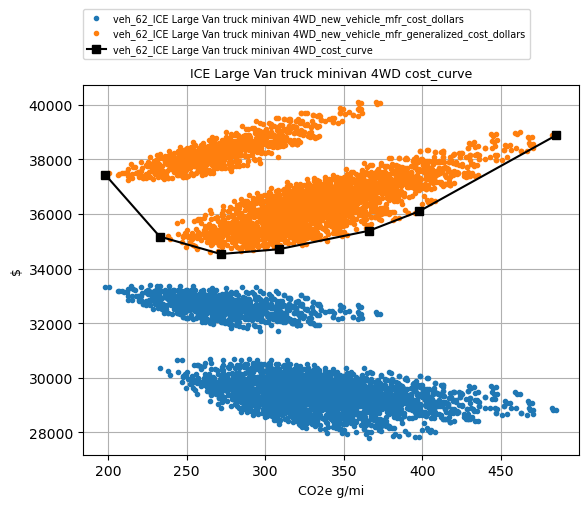
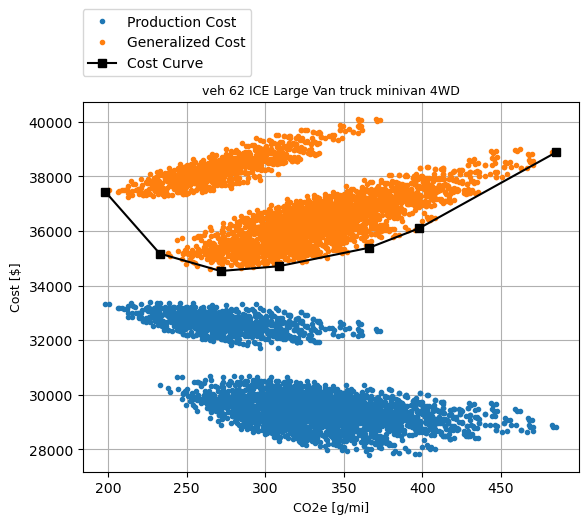
updated figures and associated code

diff --git a/omega_model/producer/vehicles.py b/omega_model/producer/vehicles.py
@@ -529,7 +529,7 @@ class CompositeVehicle(OMEGABase):
             from common.omega_plot import figure, label_xyt
 
             fig, ax1 = figure()
-            label_xyt(ax1, 'CO2e g/mi', 'new_vehicle_mfr_generalized_cost_dollars', '%s cost_curve' % self.name)
+            label_xyt(ax1, 'CO2e [g/mi]', 'Generalized Cost [$]', '%s' % self.name)
 
         for v in self.vehicle_list:
             if 'cost_curve' in self.__dict__:
@@ -545,7 +545,7 @@ class CompositeVehicle(OMEGABase):
                     ax1.plot(v.cost_curve['veh_%s_cert_co2e_grams_per_mile' % v.vehicle_id],
                              v.cost_curve['veh_%s_new_vehicle_mfr_generalized_cost_dollars' % v.vehicle_id], 's-',
                              color='black',
-                             label='veh_%s_%s' % (v.vehicle_id, v.name))
+                             label='veh %s %s' % (v.vehicle_id, v.name))
 
                     ax1.plot(v.cert_co2e_grams_per_mile,
                              v.new_vehicle_mfr_generalized_cost_dollars, '*',
@@ -555,7 +555,7 @@ class CompositeVehicle(OMEGABase):
                     ax1.plot(v.cost_curve['veh_%s_cert_co2e_grams_per_mile' % v.vehicle_id],
                              v.cost_curve['veh_%s_new_vehicle_mfr_generalized_cost_dollars' % v.vehicle_id], '.--',
                              linewidth=1,
-                             label='veh_%s_%s' % (v.vehicle_id, v.name))
+                             label='veh %s %s' % (v.vehicle_id, v.name))
 
                     ax1.plot(v.cert_co2e_grams_per_mile,
                              v.new_vehicle_mfr_generalized_cost_dollars, '*',
@@ -566,7 +566,7 @@ class CompositeVehicle(OMEGABase):
 
             ax1.plot(self.cost_curve['cert_co2e_grams_per_mile'],
                      self.cost_curve['new_vehicle_mfr_generalized_cost_dollars'], '-', linewidth=3,
-                     label='composite_vehicle_cost_curve')
+                     label='Composite Vehicle')
 
             ax1.plot(self.cert_co2e_grams_per_mile, self.new_vehicle_mfr_generalized_cost_dollars, '*', markersize=25,
                      color=ax1.get_lines()[-1].get_color())
@@ -574,8 +574,10 @@ class CompositeVehicle(OMEGABase):
             ax1.legend(fontsize='medium', bbox_to_anchor=(1.04, 0), loc="lower left",
                                borderaxespad=0)
 
-            fig.savefig('%s%s_%s_decomposition.png' % (omega_globals.options.output_folder, self.model_year, ax1.get_title()),
-                        bbox_inches='tight')
+            figname = '%s%s_%s_cost_curve_decomposition.png' % (omega_globals.options.output_folder, self.model_year, ax1.get_title())
+            figname = figname.replace('(', '_').replace(')', '_').replace('.', '_').replace(' ', '_')\
+                .replace('__', '_').replace('_png', '.png')
+            fig.savefig(figname, bbox_inches='tight')
 
     def calc_composite_cost_curve(self, plot=False):
         """
@@ -599,7 +601,7 @@ class CompositeVehicle(OMEGABase):
 
         if plot:
             fig, ax1 = figure()
-            label_xyt(ax1, 'CO2e g/mi', 'new_vehicle_mfr_generalized_cost_dollars', '%s cost_curve' % self.name)
+            label_xyt(ax1, 'CO2e [g/mi]', 'Generalized Cost [$]', '%s' % self.name)
 
         composite_frontier_df = pd.DataFrame()
         composite_frontier_df['market_share_frac'] = [0]
@@ -643,20 +645,23 @@ class CompositeVehicle(OMEGABase):
                     ax1.plot(vehicle_frontier['veh_%s_cert_co2e_grams_per_mile' % v.vehicle_id],
                              vehicle_frontier['veh_%s_new_vehicle_mfr_generalized_cost_dollars' % v.vehicle_id], 's-',
                              color='black',
-                             label='veh_%s_%s' % (v.vehicle_id, v.name))
+                             label='veh %s %s' % (v.vehicle_id, v.name))
                 else:
                     ax1.plot(vehicle_frontier['veh_%s_cert_co2e_grams_per_mile' % v.vehicle_id] ,
                              vehicle_frontier['veh_%s_new_vehicle_mfr_generalized_cost_dollars' % v.vehicle_id], '.--',
-                             linewidth=1, label='veh_%s_%s' % (v.vehicle_id, v.name))
+                             linewidth=1, label='veh %s %s' % (v.vehicle_id, v.name))
 
         if plot:
             ax1.plot(composite_frontier_df['cert_co2e_grams_per_mile'],
                      composite_frontier_df['new_vehicle_mfr_generalized_cost_dollars'], '-', linewidth=3,
-                     label='composite_vehicle_cost_curve')
+                     label='Composite Vehicle')
 
             ax1.legend(fontsize='medium', bbox_to_anchor=(1.04,0), loc="lower left", borderaxespad=0)
 
-            fig.savefig('%s%s_%s_composition.png' % (omega_globals.options.output_folder, self.model_year, ax1.get_title()), bbox_inches='tight')
+            figname = '%s%s_%s_cost_curve_composition.png' % (omega_globals.options.output_folder, self.model_year, ax1.get_title())
+            figname = figname.replace('(', '_').replace(')', '_').replace('.', '_').replace(' ', '_')\
+                .replace('__', '_').replace('_png', '.png')
+            fig.savefig(figname, bbox_inches='tight')
 
         return composite_frontier_df
 
@@ -1035,25 +1040,25 @@ class Vehicle(OMEGABase):
             from common.omega_plot import figure, label_xyt
 
             fig, ax1 = figure()
-            label_xyt(ax1, 'CO2e g/mi', '$', '%s cost_curve' % self.name)
+            label_xyt(ax1, 'CO2e [g/mi]', 'Cost [$]', 'veh %s %s' % (self.vehicle_id, self.name))
 
             ax1.plot(self.cost_cloud['cert_co2e_grams_per_mile'],
                  self.cost_cloud['new_vehicle_mfr_cost_dollars'], '.',
-                 label='veh_%s_%s_new_vehicle_mfr_cost_dollars' % (self.vehicle_id, self.name))
+                 label='Production Cost')
 
             ax1.plot(self.cost_cloud['cert_co2e_grams_per_mile'],
                  self.cost_cloud['new_vehicle_mfr_generalized_cost_dollars'], '.',
-                 label='veh_%s_%s_new_vehicle_mfr_generalized_cost_dollars' % (self.vehicle_id, self.name))
+                 label='Generalized Cost')
 
             ax1.plot(cost_curve['veh_%s_cert_co2e_grams_per_mile' % self.vehicle_id],
                  cost_curve['veh_%s_new_vehicle_mfr_generalized_cost_dollars' % self.vehicle_id], 's-',
                  color='black',
-                 label='veh_%s_%s_cost_curve' % (self.vehicle_id, self.name))
+                 label='Cost Curve')
 
-            ax1.legend(fontsize='x-small', bbox_to_anchor=(0, 1.07), loc="lower left", borderaxespad=0)
+            ax1.legend(fontsize='medium', bbox_to_anchor=(0, 1.07), loc="lower left", borderaxespad=0)
 
-            fig.savefig('%s%d_%s_cost_curve.png' % (omega_globals.options.output_folder, self.model_year, self.name),
-                        bbox_inches='tight')
+            figname = '%s%d_%s_cost_curve.png' % (omega_globals.options.output_folder, self.model_year, self.name)
+            fig.savefig(figname.replace(' ', '_'), bbox_inches='tight')
 
         return cost_curve
 
